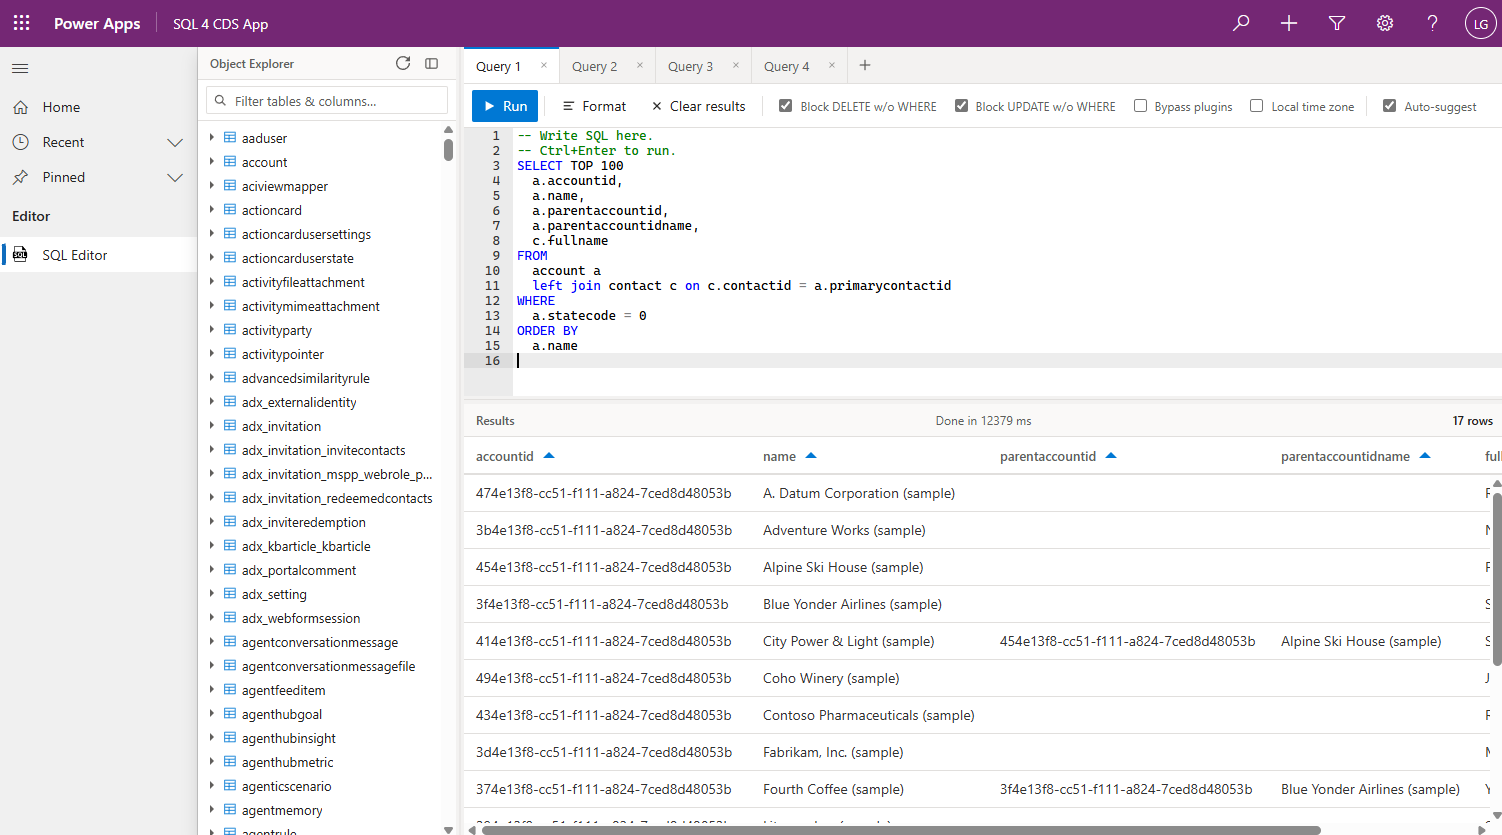
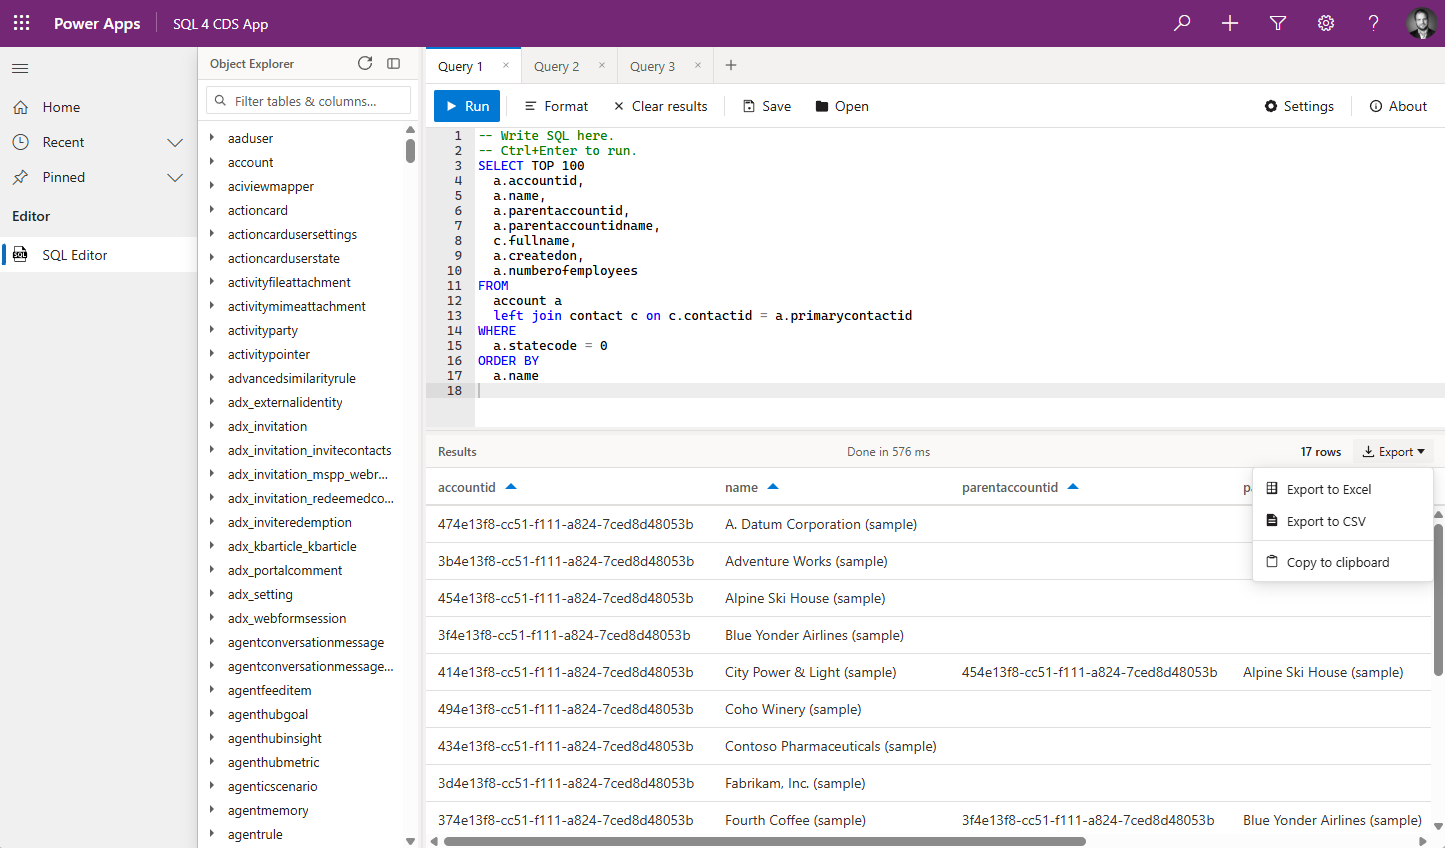
Readme uypd

diff --git a/README.md b/README.md
@@ -6,7 +6,7 @@ A **Dataverse plugin and web resource wrapper** around [Sql4Cds](https://github.
 
 ## How to install?
 
-A Dataverse solution will be available for download once this becomes ready for release. Currently it's early work in progress.
+Import the solution from the [releases page](https://github.com/kowgli/Sql4CdsApp/releases/tag/Release) into your Dataverse environment. The solution includes a model-driven app with a web resource for the SQL editor, and plugins that execute the SQL queries.
 
 ## Overview
 
@@ -16,6 +16,23 @@ Sql4CdsApp integrates the Sql4Cds SQL engine into the Dataverse platform by comb
 - **TypeScript Web Resources** — a browser-based SQL editor embedded in a model-driven app page, providing a developer/admin UI for writing and executing SQL against Dataverse tables
 
 This allows users with appropriate Dataverse roles to run SQL queries against their environment directly from within a model-driven app, without needing external tools.
+
+## Security
+
+All queries exectuted through Sql4CdsApp are subject to Dataverse's security model, ensuring that users can only access data they have permissions for. The plugin executes queries in a sandboxed environment, and the web resource is only accessible to users with the necessary roles.
+Currently the app is designed for users with the System Administrator role, but it can be customized to allow other roles as needed.
+
+## Performance
+
+While Sql4CdsApp provides a convenient way to run SQL queries against Dataverse, it's important to note that performance may vary based on the complexity of the queries and the size of the data. It's recommended to use this tool for development, testing, and administrative purposes rather than for high-volume production workloads.
+
+The plugin sandbox environment has certain limitations, such as limited execution time, memory limitations and single thread execution, which may impact the performance of complex queries. Always test your queries in a non-production environment before running them in production.
+
+For complex queries or large datasets use the proper Sql4Cds tool inside XrmToolBox or SSMS for better performance and more advanced features.
+
+## No warenties
+
+Although the tool doesn't have any known issues, it is provided as-is without any warranties. Use it at your own risk and always test in a non-production environment first. Take special care when writing bulk data manipulating queries like `INSERT`, `UPDATE`, or `DELETE` as they can have significant impact on your data if not used correctly.
 
 ## License
 